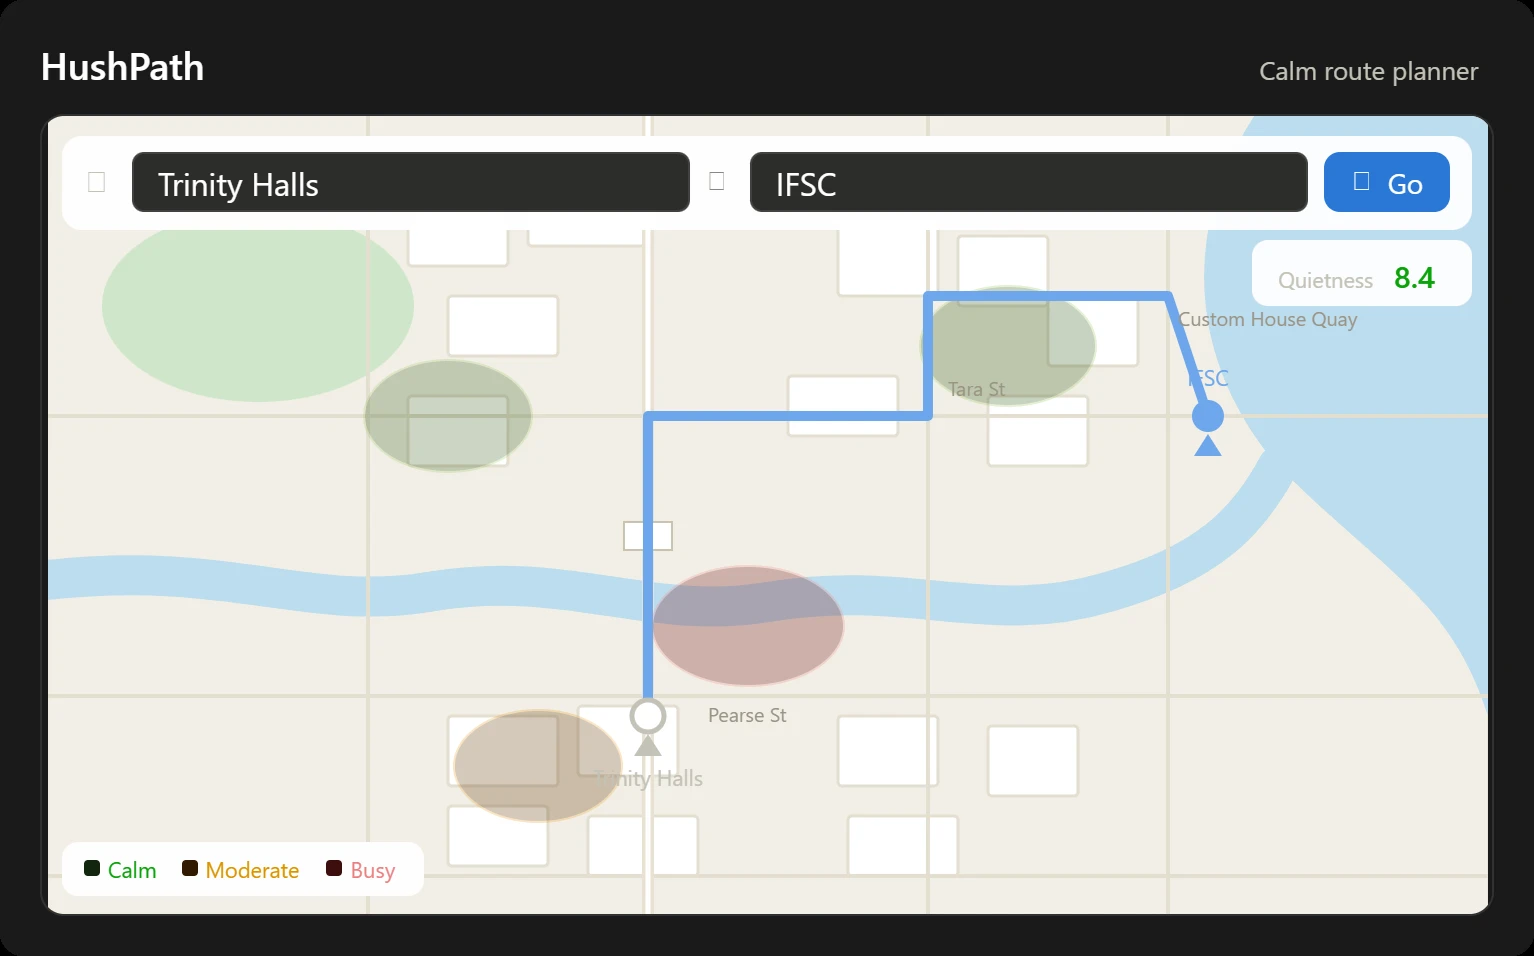
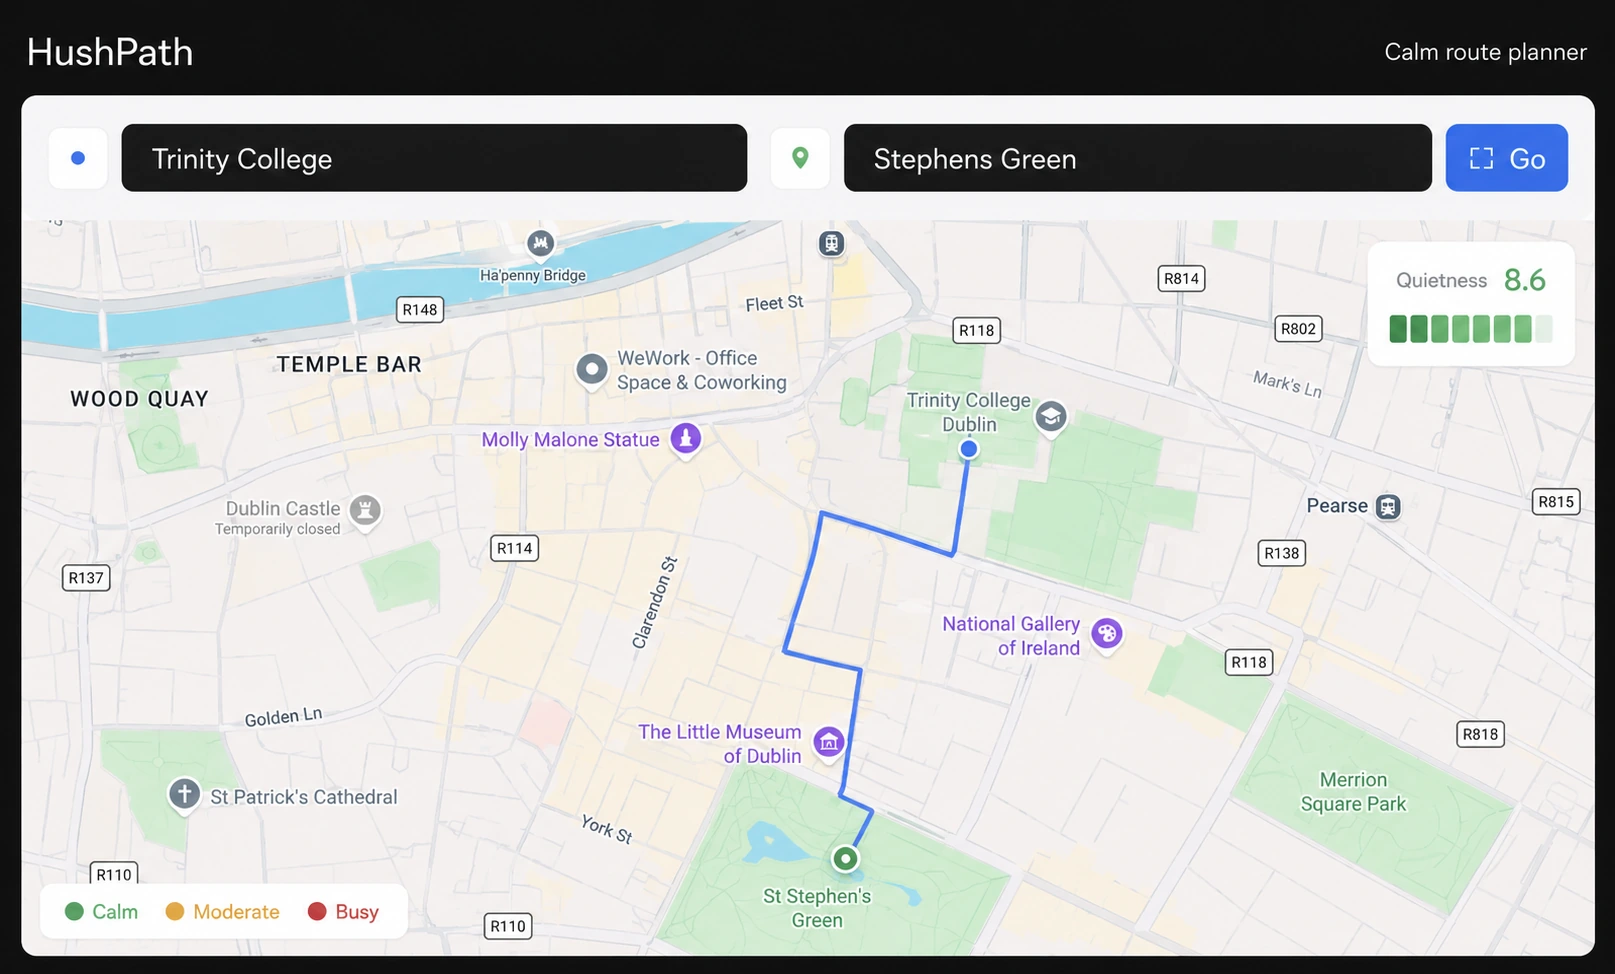
update hushpath image

diff --git a/src/components/Skills.tsx b/src/components/Skills.tsx
@@ -27,6 +27,7 @@ const groups: Group[] = [
     skills: [
       s("FastAPI", "fastapi"),
       s("Node.js", "nodejs"),
+      s("React", "react"),
       s("SQLAlchemy", "sqlalchemy"),
       s("Pytest", "pytest"),
       s("Tailwind CSS", "tailwindcss"),